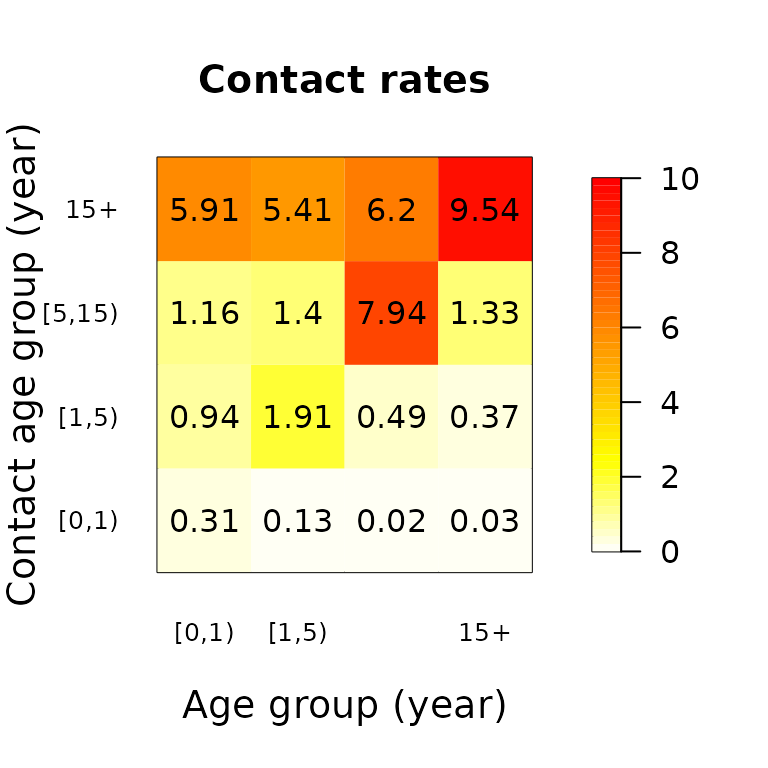
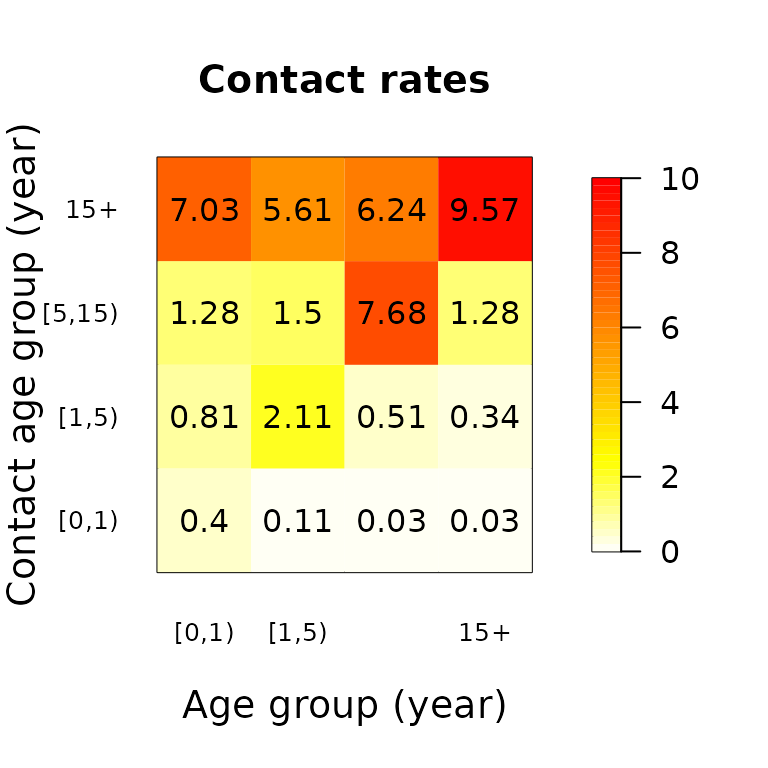
Deploying to gh-pages from @ epiforecasts/socialmixr@eaba64b3d8d924fbcd8cbfc696b8b792440f95ba 🚀

diff --git a/articles/socialmixr.html b/articles/socialmixr.html
@@ -223,10 +223,10 @@ be obtained, for example the mean:</p>
 <span><span class="va">mr</span></span>
 <span><span class="co">#&gt;          contact.age.group</span></span>
 <span><span class="co">#&gt; age.group      [0,1)     [1,5)   [5,15)      15+</span></span>
-<span><span class="co">#&gt;    [0,1)  0.30670677 0.9380793 1.163971 5.908682</span></span>
-<span><span class="co">#&gt;    [1,5)  0.13327178 1.9054784 1.398039 5.414167</span></span>
-<span><span class="co">#&gt;    [5,15) 0.02366371 0.4902583 7.940746 6.201289</span></span>
-<span><span class="co">#&gt;    15+    0.03260280 0.3692196 1.330897 9.537486</span></span></code></pre></div>
+<span><span class="co">#&gt;    [0,1)  0.40334776 0.8093795 1.278759 7.027590</span></span>
+<span><span class="co">#&gt;    [1,5)  0.11066532 2.1082139 1.495621 5.610072</span></span>
+<span><span class="co">#&gt;    [5,15) 0.03151251 0.5085067 7.684004 6.237408</span></span>
+<span><span class="co">#&gt;    15+    0.03342723 0.3388510 1.283004 9.566720</span></span></code></pre></div>
 </div>
 <div class="section level2">
 <h2 id="demography">Demography<a class="anchor" aria-label="anchor" href="#demography"></a>

diff --git a/news/index.html b/news/index.html
@@ -54,6 +54,7 @@
 <ul><li>Code quality is now ensured through continuous integration and the lintr package (<a href="https://github.com/epiforecasts/socialmixr/issues/69" class="external-link">#69</a>).</li>
 <li>
 <a href="https://en.wikipedia.org/wiki/Cyclomatic_complexity" class="external-link">Cyclomatic complexity</a> of <code><a href="../reference/download_survey.html">download_survey()</a></code> has been reduced by externalising the <code>find_common_prefix()</code> function and failing early instead of relying on unnecessary if/else sequences</li>
+<li>More generous filename checks now pass files named e.g. “…_participants_common…” an not only “…participant_common…”</li>
 </ul></div>
 </div>
     <div class="section level2">

diff --git a/reference/survey_countries.html b/reference/survey_countries.html
@@ -60,7 +60,7 @@
     <div class="section level2">
     <h2 id="arguments">Arguments<a class="anchor" aria-label="anchor" href="#arguments"></a></h2>
     <dl><dt>survey</dt>
-<dd><p>a DOI (see <code><a href="list_surveys.html">list_surveys()</a></code>), or a character vector of file names, or a <code><a href="survey.html">survey()</a></code> object (in which case only cleaning is done).</p></dd>
+<dd><p>a DOI or url to get the survey from, or a <code><a href="survey.html">survey()</a></code> object (in which case only cleaning is done).</p></dd>
 
 
 <dt>country.column</dt>

diff --git a/reference/get_survey.html b/reference/get_survey.html
@@ -60,7 +60,7 @@
     <div class="section level2">
     <h2 id="arguments">Arguments<a class="anchor" aria-label="anchor" href="#arguments"></a></h2>
     <dl><dt>survey</dt>
-<dd><p>a DOI (see <code><a href="list_surveys.html">list_surveys()</a></code>), or a character vector of file names, or a <code><a href="survey.html">survey()</a></code> object (in which case only cleaning is done).</p></dd>
+<dd><p>a DOI or url to get the survey from, or a <code><a href="survey.html">survey()</a></code> object (in which case only cleaning is done).</p></dd>
 
 
 <dt>...</dt>
